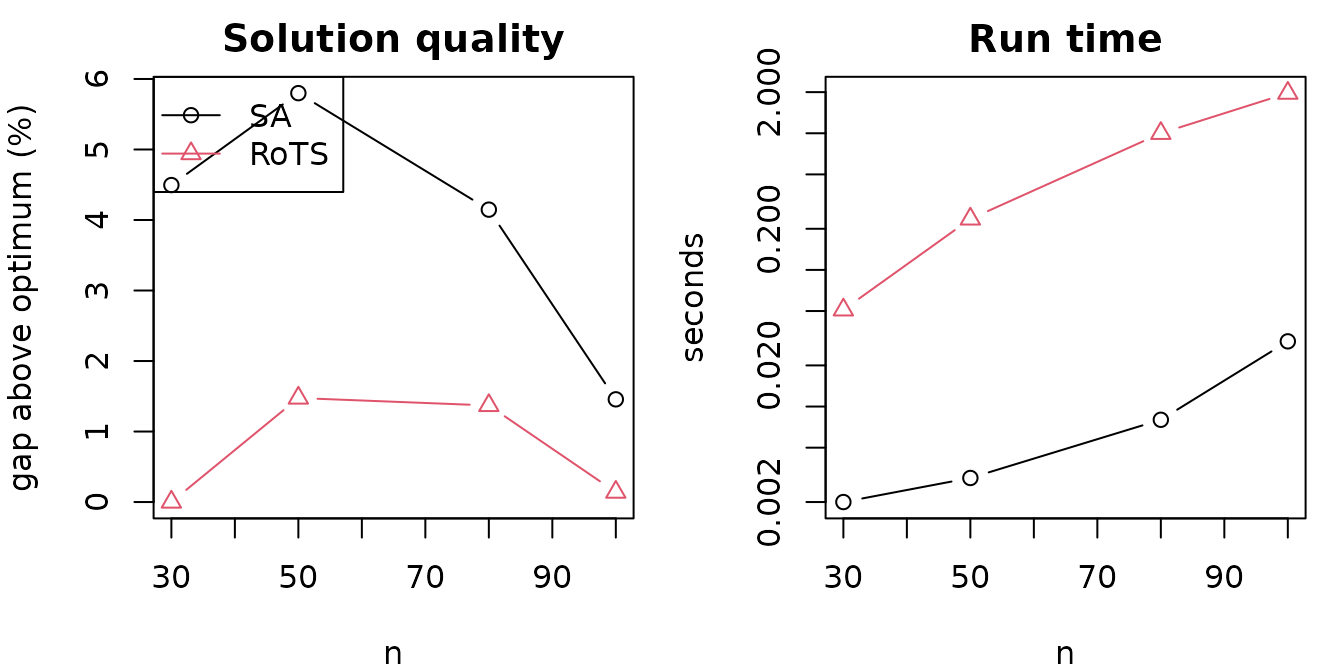
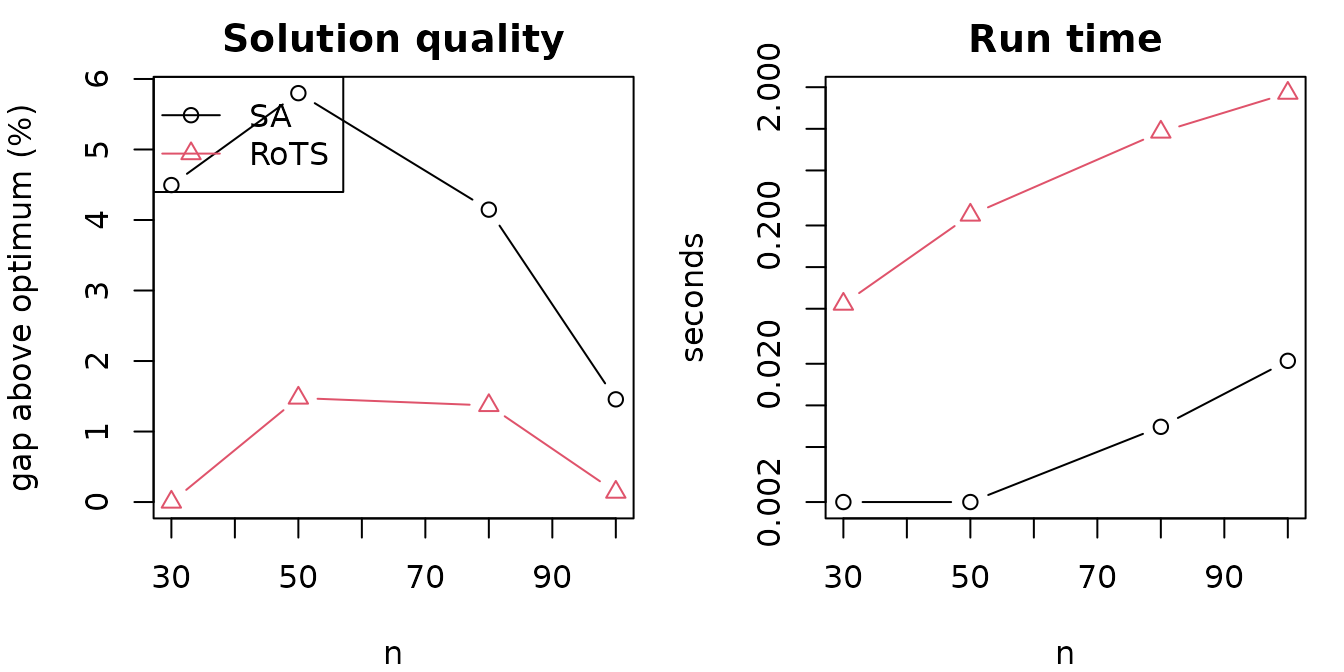
Deploying to gh-pages from @ mhahsler/qap@256c182de55696c35972d16b34ac23d6d305a4f1 🚀

diff --git a/index.html b/index.html
@@ -21,8 +21,8 @@
 <script src="deps/bootstrap-5.3.8/bootstrap.bundle.min.js"></script><link href="deps/font-awesome-6.5.2/css/all.min.css" rel="stylesheet">
 <link href="deps/font-awesome-6.5.2/css/v4-shims.min.css" rel="stylesheet">
 <script src="deps/headroom-0.11.0/headroom.min.js"></script><script src="deps/headroom-0.11.0/jQuery.headroom.min.js"></script><script src="deps/bootstrap-toc-1.0.1/bootstrap-toc.min.js"></script><script src="deps/clipboard.js-2.0.11/clipboard.min.js"></script><script src="deps/search-1.0.0/autocomplete.jquery.min.js"></script><script src="deps/search-1.0.0/fuse.min.js"></script><script src="deps/search-1.0.0/mark.min.js"></script><!-- pkgdown --><script src="pkgdown.js"></script><meta property="og:title" content="Heuristics for the Quadratic Assignment Problem (QAP)">
-<meta name="description" content="Implements simulated annealing and robust tabu search heuristics for the Quadratic Assignment Problem (QAP). Originally formulated as a facility location problem in operations research, the QAP also has applications in data analysis. The problem is NP-hard.">
-<meta property="og:description" content="Implements simulated annealing and robust tabu search heuristics for the Quadratic Assignment Problem (QAP). Originally formulated as a facility location problem in operations research, the QAP also has applications in data analysis. The problem is NP-hard.">
+<meta name="description" content="Implements search heuristics for the Quadratic Assignment Problem (QAP). Originally formulated as a facility location problem in operations research, the QAP also has applications in data analysis. The problem is NP-hard.">
+<meta property="og:description" content="Implements search heuristics for the Quadratic Assignment Problem (QAP). Originally formulated as a facility location problem in operations research, the QAP also has applications in data analysis. The problem is NP-hard.">
 <meta property="og:image" content="https://michael.hahsler.net/qap/logo.svg">
 </head>
 <body>
@@ -82,18 +82,20 @@
 <li>
 <strong>Robust tabu search</strong> described in Taillard (1991)</li>
 </ul>
+<p>The package also contains a copy of the problem instances and solutions from <a href="https://coral.ise.lehigh.edu/data-sets/qaplib/" class="external-link">QAPLIB</a>.</p>
 <p>The following R packages use <code>qap</code>: <a href="https://CRAN.R-project.org/package=seriation" class="external-link">seriation</a></p>
 <p>To cite package ‘qap’ in publications use:</p>
 <blockquote>
-<p>Hahsler M (2026). <em>qap: Heuristics for the Quadratic Assignment Problem (QAP)</em>. R package version 0.1-3, <a href="https://github.com/mhahsler/qap" class="external-link uri">https://github.com/mhahsler/qap</a>.</p>
+<p>Hahsler M (2026). <em>qap: Heuristics for the Quadratic Assignment Problem (QAP)</em>. <a href="doi:10.32614/CRAN.package.qap" class="uri">doi:10.32614/CRAN.package.qap</a> <a href="https://doi.org/10.32614/CRAN.package.qap" class="external-link uri">https://doi.org/10.32614/CRAN.package.qap</a>. R package version 0.2-0, <a href="https://CRAN.R-project.org/package=qap" class="external-link uri">https://CRAN.R-project.org/package=qap</a>.</p>
 </blockquote>
 <div class="sourceCode" id="cb1"><pre class="sourceCode R"><code class="sourceCode r"><span id="cb1-1"><a href="#cb1-1" tabindex="-1"></a><span class="sc">@</span>Manual{,</span>
 <span id="cb1-2"><a href="#cb1-2" tabindex="-1"></a>  title <span class="ot">=</span> {qap<span class="sc">:</span> Heuristics <span class="cf">for</span> the Quadratic Assignment <span class="fu">Problem</span> (QAP)},</span>
 <span id="cb1-3"><a href="#cb1-3" tabindex="-1"></a>  author <span class="ot">=</span> {Michael Hahsler},</span>
 <span id="cb1-4"><a href="#cb1-4" tabindex="-1"></a>  year <span class="ot">=</span> {<span class="dv">2026</span>},</span>
-<span id="cb1-5"><a href="#cb1-5" tabindex="-1"></a>  note <span class="ot">=</span> {R package version <span class="fl">0.1</span><span class="dv">-3</span>},</span>
-<span id="cb1-6"><a href="#cb1-6" tabindex="-1"></a>  url <span class="ot">=</span> {https<span class="sc">:</span><span class="er">//</span>github.com<span class="sc">/</span>mhahsler<span class="sc">/</span>qap},</span>
-<span id="cb1-7"><a href="#cb1-7" tabindex="-1"></a>}</span></code></pre></div>
+<span id="cb1-5"><a href="#cb1-5" tabindex="-1"></a>  note <span class="ot">=</span> {R package version <span class="fl">0.2</span><span class="dv">-0</span>},</span>
+<span id="cb1-6"><a href="#cb1-6" tabindex="-1"></a>  url <span class="ot">=</span> {https<span class="sc">:</span><span class="er">//</span>CRAN.R<span class="sc">-</span>project.org<span class="sc">/</span>package<span class="ot">=</span>qap},</span>
+<span id="cb1-7"><a href="#cb1-7" tabindex="-1"></a>  doi <span class="ot">=</span> {<span class="fl">10.32614</span><span class="sc">/</span>CRAN.package.qap},</span>
+<span id="cb1-8"><a href="#cb1-8" tabindex="-1"></a>}</span></code></pre></div>
 </div>
 <div class="section level2">
 <h2 id="installation">Installation<a class="anchor" aria-label="anchor" href="#installation"></a>
@@ -110,7 +112,7 @@
 <div class="section level2">
 <h2 id="usage">Usage<a class="anchor" aria-label="anchor" href="#usage"></a>
 </h2>
-<p>The package contains a copy of the problem instances and solutions from <a href="https://coral.ise.lehigh.edu/data-sets/qaplib/" class="external-link">QAPLIB</a>. We load the <code>had20</code> QAPLIB problem. It contains flow and distance matrices, a known optimal solution, and its objective value.</p>
+<p>We load the <code>had20</code> QAPLIB problem. It contains flow and distance matrices, a known optimal solution, and its objective value.</p>
 <div class="sourceCode" id="cb4"><pre class="downlit sourceCode r">
 <code class="sourceCode R"><span><span class="kw"><a href="https://rdrr.io/r/base/library.html" class="external-link">library</a></span><span class="op">(</span><span class="va"><a href="https://github.com/mhahsler/qap" class="external-link">qap</a></span><span class="op">)</span></span>
 <span><span class="fu"><a href="https://rdrr.io/r/base/Random.html" class="external-link">set.seed</a></span><span class="op">(</span><span class="fl">1000</span><span class="op">)</span></span>
@@ -147,7 +149,7 @@
 <h2 id="references">References<a class="anchor" aria-label="anchor" href="#references"></a>
 </h2>
 <ul>
-<li>Hahsler M (2026). <em>qap: Heuristics for the Quadratic Assignment Problem (QAP)</em>. R package version 0.1-3, <a href="https://github.com/mhahsler/qap" class="external-link uri">https://github.com/mhahsler/qap</a>.</li>
+<li>Hahsler M (2026). <em>qap: Heuristics for the Quadratic Assignment Problem (QAP)</em>. <a href="doi:10.32614/CRAN.package.qap" class="uri">doi:10.32614/CRAN.package.qap</a> <a href="https://doi.org/10.32614/CRAN.package.qap" class="external-link uri">https://doi.org/10.32614/CRAN.package.qap</a>. R package version 0.2-0, <a href="https://CRAN.R-project.org/package=qap" class="external-link uri">https://CRAN.R-project.org/package=qap</a>.</li>
 <li>R.E. Burkard and F. Rendl (1984). A thermodynamically motivated simulation procedure for combinatorial optimization problems. <em>European Journal of Operational Research,</em> 17(2):169-174. <a href="https://doi.org/10.1016/0377-2217(84)90231-5" class="external-link uri">https://doi.org/10.1016/0377-2217(84)90231-5</a>
 </li>
 <li>Taillard, E. (1991). Robust taboo search for the quadratic assignment problem. <em>Parallel Computing,</em> 17(4-5), 443-455. <a href="https://doi.org/10.1016/S0167-8191(05)80147-4" class="external-link uri">https://doi.org/10.1016/S0167-8191(05)80147-4</a>

diff --git a/articles/comparing_methods.html b/articles/comparing_methods.html
@@ -158,7 +158,7 @@ gets 3 random restarts and uses its default settings.</p>
 <td align="right">4.495</td>
 <td align="right">0.000</td>
 <td align="right">0.002</td>
-<td align="right">0.051</td>
+<td align="right">0.054</td>
 </tr>
 <tr class="even">
 <td align="left">tai50a</td>
@@ -166,8 +166,8 @@ gets 3 random restarts and uses its default settings.</p>
 <td align="right">4938796</td>
 <td align="right">5.799</td>
 <td align="right">1.475</td>
-<td align="right">0.003</td>
-<td align="right">0.236</td>
+<td align="right">0.002</td>
+<td align="right">0.238</td>
 </tr>
 <tr class="odd">
 <td align="left">tai80a</td>
@@ -175,8 +175,8 @@ gets 3 random restarts and uses its default settings.</p>
 <td align="right">13499184</td>
 <td align="right">4.147</td>
 <td align="right">1.370</td>
-<td align="right">0.008</td>
-<td align="right">0.999</td>
+<td align="right">0.007</td>
+<td align="right">0.948</td>
 </tr>
 <tr class="even">
 <td align="left">sko100a</td>
@@ -184,8 +184,8 @@ gets 3 random restarts and uses its default settings.</p>
 <td align="right">152002</td>
 <td align="right">1.457</td>
 <td align="right">0.141</td>
-<td align="right">0.030</td>
-<td align="right">1.966</td>
+<td align="right">0.021</td>
+<td align="right">1.811</td>
 </tr>
 </tbody>
 </table>
@@ -237,7 +237,8 @@ reproducible.</li>
 </h2>
 <ul>
 <li>Hahsler M (2026). <em>qap: Heuristics for the Quadratic Assignment
-Problem (QAP)</em>. R package version 0.2-0, <a href="https://github.com/mhahsler/qap" class="external-link uri">https://github.com/mhahsler/qap</a>.</li>
+Problem (QAP)</em>. <a href="doi:10.32614/CRAN.package.qap" class="uri">doi:10.32614/CRAN.package.qap</a> <a href="https://doi.org/10.32614/CRAN.package.qap" class="external-link uri">https://doi.org/10.32614/CRAN.package.qap</a>. R package
+version 0.2-0, <a href="https://CRAN.R-project.org/package=qap" class="external-link uri">https://CRAN.R-project.org/package=qap</a>.</li>
 <li>Burkard, R. E. and Rendl, F. (1984). A thermodynamically motivated
 simulation procedure for combinatorial optimization problems.
 <em>European Journal of Operational Research,</em> 17(2), 169-174. <a href="https://doi.org/10.1016/0377-2217(84)90231-5" class="external-link uri">https://doi.org/10.1016/0377-2217(84)90231-5</a>

diff --git a/reference/qap.html b/reference/qap.html
@@ -250,7 +250,7 @@ Psychology</em>, 29(2), 190-241.
 <span class="r-out co"><span class="r-pr">#&gt;</span>     1       1684         1684     11        1.844   0.000s</span>
 <span class="r-out co"><span class="r-pr">#&gt;</span>     2       1678         1678     12        0.922   0.000s</span>
 <span class="r-out co"><span class="r-pr">#&gt;</span>     3       1660         1660     12        0.922   0.000s</span>
-<span class="r-out co"><span class="r-pr">#&gt;</span>     4       1654         1654     12        0.922   0.001s</span>
+<span class="r-out co"><span class="r-pr">#&gt;</span>     4       1654         1654     12        0.922   0.000s</span>
 <span class="r-out co"><span class="r-pr">#&gt;</span>     5       1654         1696     11        1.844   0.000s</span>
 <span class="r-in"><span><span class="va">a</span></span></span>
 <span class="r-out co"><span class="r-pr">#&gt;</span>  [1]  8 10  2 11 12  5  6  7  3  1  4  9</span>
@@ -265,7 +265,7 @@ Psychology</em>, 29(2), 190-241.
 <span class="r-out co"><span class="r-pr">#&gt;</span> Parameters: n = 12, rep = 5, iter = 1200, tenure = 12, aspiration = 720</span>
 <span class="r-out co"><span class="r-pr">#&gt;</span>   rep   best_obj  current_obj  best_iter   aspired     time</span>
 <span class="r-out co"><span class="r-pr">#&gt;</span>     1       1652         1652         26         1   0.001s</span>
-<span class="r-out co"><span class="r-pr">#&gt;</span>     2       1652         1660         89         2   0.001s</span>
+<span class="r-out co"><span class="r-pr">#&gt;</span>     2       1652         1660         89         2   0.000s</span>
 <span class="r-out co"><span class="r-pr">#&gt;</span>     3       1652         1652        837         3   0.001s</span>
 <span class="r-out co"><span class="r-pr">#&gt;</span>     4       1652         1652         12         0   0.001s</span>
 <span class="r-out co"><span class="r-pr">#&gt;</span>     5       1652         1652         45         3   0.001s</span>

diff --git a/authors.html b/authors.html
@@ -57,15 +57,18 @@
       <h2 id="citation">Citation</h2>
       <p><small class="dont-index">Source: <a href="https://github.com/mhahsler/qap/blob/master/inst/CITATION" class="external-link"><code>inst/CITATION</code></a></small></p>
 
-      <p>Hahsler M (????).
+      <p>Hahsler M (2026).
 <em>qap: Heuristics for the Quadratic Assignment Problem (QAP)</em>.
-R package version 0.2-0, <a href="https://github.com/mhahsler/qap" class="external-link">https://github.com/mhahsler/qap</a>.
+<a href="https://doi.org/10.32614/CRAN.package.qap" class="external-link">doi:10.32614/CRAN.package.qap</a>.
+R package version 0.2-0, <a href="https://CRAN.R-project.org/package=qap" class="external-link">https://CRAN.R-project.org/package=qap</a>.
 </p>
       <pre>@Manual{,
   title = {qap: Heuristics for the Quadratic Assignment Problem (QAP)},
   author = {Michael Hahsler},
+  year = {2026},
   note = {R package version 0.2-0},
-  url = {https://github.com/mhahsler/qap},
+  url = {https://CRAN.R-project.org/package=qap},
+  doi = {10.32614/CRAN.package.qap},
 }</pre>
     </div>
 

diff --git a/news/index.html b/news/index.html
@@ -42,7 +42,7 @@
     </div>
 
     <div class="section level2">
-<h2 class="pkg-version" data-toc-text="0.2.0" id="qap-020-unreleased">qap 0.2.0 (unreleased)<a class="anchor" aria-label="anchor" href="#qap-020-unreleased"></a></h2>
+<h2 class="pkg-version" data-toc-text="0.2.0" id="qap-020-2026-11-13">qap 0.2.0 (2026-11-13)<a class="anchor" aria-label="anchor" href="#qap-020-2026-11-13"></a></h2>
 <ul><li>Added the robust tabu search heuristic of Taillard (1991) as <code>qap(method = "RoTS")</code>.</li>
 <li>With <code>verbose = TRUE</code>, both solvers print their parameter settings and the run time of each restart.</li>
 <li>Added a vignette comparing the run time and solution quality of both solvers.</li>

diff --git a/index.md b/index.md
@@ -23,22 +23,27 @@ The problem is NP-hard, and the package implements two heuristics:
 - **Simulated annealing** described in Burkard and Rendl (1984)
 - **Robust tabu search** described in Taillard (1991)
 
+The package also contains a copy of the problem instances and solutions
+from [QAPLIB](https://coral.ise.lehigh.edu/data-sets/qaplib/).
+
 The following R packages use `qap`:
 [seriation](https://CRAN.R-project.org/package=seriation)
 
 To cite package ‘qap’ in publications use:
 
 > Hahsler M (2026). *qap: Heuristics for the Quadratic Assignment
-> Problem (QAP)*. R package version 0.1-3,
-> <https://github.com/mhahsler/qap>.
+> Problem (QAP)*. <doi:10.32614/CRAN.package.qap>
+> <https://doi.org/10.32614/CRAN.package.qap>. R package version 0.2-0,
+> <https://CRAN.R-project.org/package=qap>.
 
 ``` R
 @Manual{,
   title = {qap: Heuristics for the Quadratic Assignment Problem (QAP)},
   author = {Michael Hahsler},
   year = {2026},
-  note = {R package version 0.1-3},
-  url = {https://github.com/mhahsler/qap},
+  note = {R package version 0.2-0},
+  url = {https://CRAN.R-project.org/package=qap},
+  doi = {10.32614/CRAN.package.qap},
 }
 ```
 
@@ -63,10 +68,8 @@ install.packages("qap",
 
 ## Usage
 
-The package contains a copy of the problem instances and solutions from
-[QAPLIB](https://coral.ise.lehigh.edu/data-sets/qaplib/). We load the
-`had20` QAPLIB problem. It contains flow and distance matrices, a known
-optimal solution, and its objective value.
+We load the `had20` QAPLIB problem. It contains flow and distance
+matrices, a known optimal solution, and its objective value.
 
 ``` r
 
@@ -143,8 +146,9 @@ a
 ## References
 
 - Hahsler M (2026). *qap: Heuristics for the Quadratic Assignment
-  Problem (QAP)*. R package version 0.1-3,
-  <https://github.com/mhahsler/qap>.
+  Problem (QAP)*. <doi:10.32614/CRAN.package.qap>
+  <https://doi.org/10.32614/CRAN.package.qap>. R package version 0.2-0,
+  <https://CRAN.R-project.org/package=qap>.
 - R.E. Burkard and F. Rendl (1984). A thermodynamically motivated
   simulation procedure for combinatorial optimization problems.
   *European Journal of Operational Research,* 17(2):169-174.

diff --git a/articles/comparing_methods.md b/articles/comparing_methods.md
@@ -66,10 +66,10 @@ knitr::kable(res, digits = 3, row.names = FALSE,
 
 | Instance |   n |  Optimum | SA gap (%) | RoTS gap (%) | SA time (s) | RoTS time (s) |
 |:---------|----:|---------:|-----------:|-------------:|------------:|--------------:|
-| tai30a   |  30 |  1818146 |      4.495 |        0.000 |       0.002 |         0.051 |
-| tai50a   |  50 |  4938796 |      5.799 |        1.475 |       0.003 |         0.236 |
-| tai80a   |  80 | 13499184 |      4.147 |        1.370 |       0.008 |         0.999 |
-| sko100a  | 100 |   152002 |      1.457 |        0.141 |       0.030 |         1.966 |
+| tai30a   |  30 |  1818146 |      4.495 |        0.000 |       0.002 |         0.054 |
+| tai50a   |  50 |  4938796 |      5.799 |        1.475 |       0.002 |         0.238 |
+| tai80a   |  80 | 13499184 |      4.147 |        1.370 |       0.007 |         0.948 |
+| sko100a  | 100 |   152002 |      1.457 |        0.141 |       0.021 |         1.811 |
 
 ``` r
 
@@ -120,8 +120,9 @@ seconds, so we leave them out to keep this vignette fast to build.
 ## References
 
 - Hahsler M (2026). *qap: Heuristics for the Quadratic Assignment
-  Problem (QAP)*. R package version 0.2-0,
-  <https://github.com/mhahsler/qap>.
+  Problem (QAP)*. <doi:10.32614/CRAN.package.qap>
+  <https://doi.org/10.32614/CRAN.package.qap>. R package version 0.2-0,
+  <https://CRAN.R-project.org/package=qap>.
 - Burkard, R. E. and Rendl, F. (1984). A thermodynamically motivated
   simulation procedure for combinatorial optimization problems.
   *European Journal of Operational Research,* 17(2), 169-174.

diff --git a/reference/qap.md b/reference/qap.md
@@ -212,7 +212,7 @@ a <- qap(p$A, p$B, verbose = TRUE, rep = 5)
 #>     1       1684         1684     11        1.844   0.000s
 #>     2       1678         1678     12        0.922   0.000s
 #>     3       1660         1660     12        0.922   0.000s
-#>     4       1654         1654     12        0.922   0.001s
+#>     4       1654         1654     12        0.922   0.000s
 #>     5       1654         1696     11        1.844   0.000s
 a
 #>  [1]  8 10  2 11 12  5  6  7  3  1  4  9
@@ -227,7 +227,7 @@ a <- qap(p$A, p$B, method = "RoTS", rep = 5, verbose = TRUE)
 #> Parameters: n = 12, rep = 5, iter = 1200, tenure = 12, aspiration = 720
 #>   rep   best_obj  current_obj  best_iter   aspired     time
 #>     1       1652         1652         26         1   0.001s
-#>     2       1652         1660         89         2   0.001s
+#>     2       1652         1660         89         2   0.000s
 #>     3       1652         1652        837         3   0.001s
 #>     4       1652         1652         12         0   0.001s
 #>     5       1652         1652         45         3   0.001s

diff --git a/authors.md b/authors.md
@@ -12,12 +12,16 @@
 Source:
 [`inst/CITATION`](https://github.com/mhahsler/qap/blob/master/inst/CITATION)
 
-Hahsler M (????). *qap: Heuristics for the Quadratic Assignment Problem
-(QAP)*. R package version 0.2-0, <https://github.com/mhahsler/qap>.
+Hahsler M (2026). *qap: Heuristics for the Quadratic Assignment Problem
+(QAP)*.
+[doi:10.32614/CRAN.package.qap](https://doi.org/10.32614/CRAN.package.qap).
+R package version 0.2-0, <https://CRAN.R-project.org/package=qap>.
 
     @Manual{,
       title = {qap: Heuristics for the Quadratic Assignment Problem (QAP)},
       author = {Michael Hahsler},
+      year = {2026},
       note = {R package version 0.2-0},
-      url = {https://github.com/mhahsler/qap},
+      url = {https://CRAN.R-project.org/package=qap},
+      doi = {10.32614/CRAN.package.qap},
     }

diff --git a/news/index.md b/news/index.md
@@ -1,6 +1,6 @@
 # Changelog
 
-## qap 0.2.0 (unreleased)
+## qap 0.2.0 (2026-11-13)
 
 - Added the robust tabu search heuristic of Taillard (1991) as
   `qap(method = "RoTS")`.
